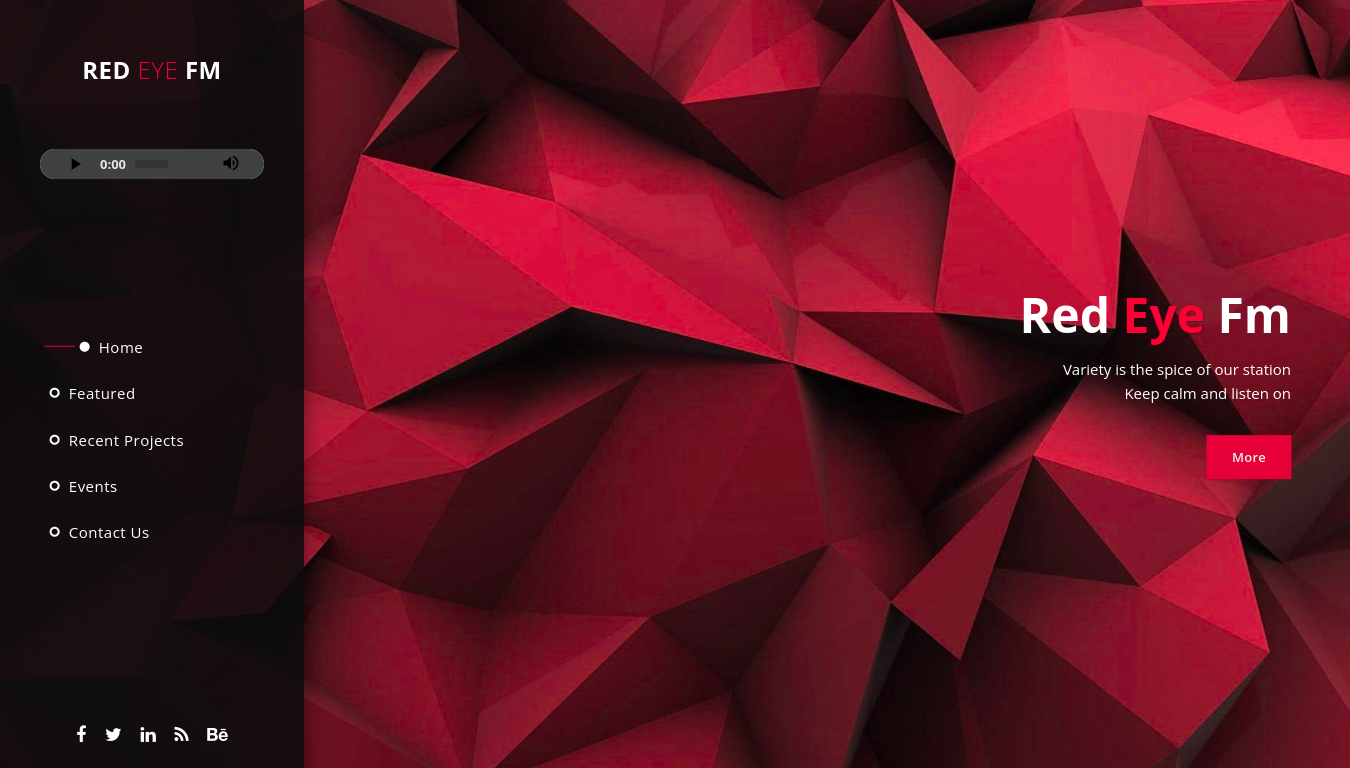
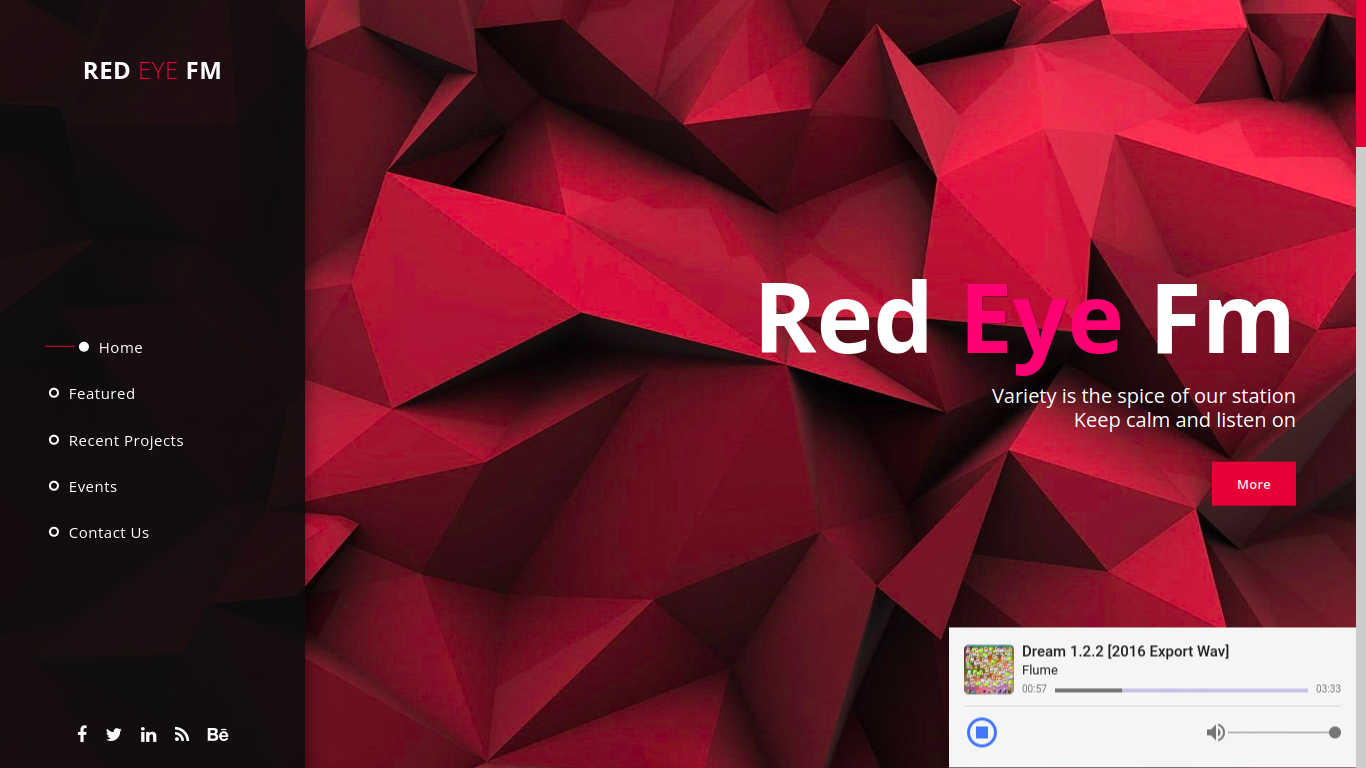
Player: Azure cast player

diff --git a/index.html b/index.html
@@ -9,6 +9,7 @@
     <meta http-equiv="X-UA-Compatible" content="IE=edge,chrome=1">
     <meta name="description" content="">
     <meta name="viewport" content="width=device-width, initial-scale=1">
+    <link rel="shortcut icon" href="./img/favicon.ico" type="image/x-icon">
     <link rel="apple-touch-icon" href="apple-touch-icon.png">
     <!-- IMPORTS -->
     <link rel="stylesheet" href="css/bootstrap.min.css">
@@ -39,28 +40,18 @@
                     <li><a href="#projects">Recent Projects</a></li>
                     <li><a href="#vlog">Events</a></li>
                     <li><a href="#contact">Contact Us</a></li>
-
-                    <div class="mobile-player">
-                        <!-- EMBEDDED PLAYER -->
-                        <audio controls autoplay>
-                            <source src="https://c32.radioboss.fm:18097/stream">
-                        </audio>
-                    </div>
                 </ul>
-
-            
             </nav>
         </div>
     </header>
+    <div class="player-container">
+        <iframe class="player" src="https://azct1.cheapazuracast.xyz/public/redeyefm/embed?theme=light" frameborder="0" allowtransparency="true"></iframe>
+    </div>
+   
     <!-- SIDE NAV -->
     <div class="sidebar-navigation hidden-sm hidden-xs">
         <div class="logo">
-            <a href="https://www.instagram.com/rogueradio.live/?hl=en">Red <em>Eye</em> Fm</a>
-            <!-- EMBEDDED PLAYER -->
-                <audio controls autoplay>
-                    <source src="https://c32.radioboss.fm:18097/stream">
-                </audio>
-            
+            <a href="https://www.instagram.com/redeyefmke/">Red <em>Eye</em> Fm</a>
         </div>
         <nav>
             <ul>
@@ -103,8 +94,8 @@
         </nav>
         <!-- SOCIAL MEDIA LINKS -->
         <ul class="social-icons">
-            <li><a href="https://www.facebook.com/RogueRadio4Life"><i class="fa fa-facebook"></i></a></li>
-            <li><a href="https://twitter.com/rogueradioolive?lang=en"><i class="fa fa-twitter"></i></a></li>
+            <li><a href="https://www.facebook.com/redeyefm"><i class="fa fa-facebook"></i></a></li>
+            <li><a href="https://twitter.com/redeyefm"><i class="fa fa-twitter"></i></a></li>
             <li><a href="#"><i class="fa fa-linkedin"></i></a></li>
             <li><a href="#"><i class="fa fa-rss"></i></a></li>
             <li><a href="#"><i class="fa fa-behance"></i></a></li>
@@ -123,9 +114,10 @@
                             <h1 class="main-text">
                                 Red
                                 <span style="color: #fc3041; text-shadow: .1rem .1rem .1rem rgba(0,0,0,0.3);">
-                                    Eye    
+                                    Eye
                                 </span>
-                                Tv</h1>
+                                Fm
+                            </h1>
                             <p>
                                 Variety is the spice of our station
                                 <br>
@@ -138,45 +130,6 @@
                     </div>
                 </div>
             </div>
-            <!-- // Item -->
-            <!-- Item -->
-            <!-- <div class="item item-2">
-                <div class="img-fill">
-                    <div class="image"></div>
-                    <div class="info">
-                        <div>
-                            <h1>The 420 <br>show</h1>
-                            <p>Three like-minded guys in a room with three microphones. <br>What could possibly go
-                                wrong?
-                            </p>
-
-                            <div class="white-button button">
-                                <a href="#featured">Show More</a>
-                            </div>
-                        </div>
-                    </div>
-                </div>
-            </div> -->
-            <!-- // Item -->
-            <!-- Item -->
-            <!-- <div class="item item-3">
-                <div class="img-fill">
-                    <div class="image"></div>
-                    <div class="info">
-                        <div>
-                            <h1><b>90+</b><br>kama mbaya mbaya</h1>
-                            <p>Sky Sports Football - <br>Live games, scores, latest football news, transfers,
-                                results,<br>
-                                fixtures and team news from the Premier to the Champions League...</p>
-
-                            <div class="white-button button">
-                                <a href="#featured">Learn More</a>
-                            </div>
-                        </div>
-                    </div>
-                </div>
-            </div> -->
-            <!-- // Item -->
         </div>
     </div>
     <!-- FEATURED CONTENT -->
@@ -198,10 +151,12 @@
                         <div class="text-content">
                             <h4>Miss Anthropocene</h4>
                             <span>
-                                Grimes' fifth album, Miss Anthropocene, is a captivating piece of art that delves deep into themes of climate change, environmental destruction, and the human condition.
+                                Grimes' fifth album, Miss Anthropocene, is a captivating piece of art that delves deep
+                                into themes of climate change, environmental destruction, and the human condition.
                             </span>
                             <p>
-                                 From start to finish, this album transports listeners to a dystopian future where humanity's fate hangs in the balance.
+                                From start to finish, this album transports listeners to a dystopian future where
+                                humanity's fate hangs in the balance.
                             </p>
                         </div>
                     </div>
@@ -215,10 +170,15 @@
                         <div class="text-content">
                             <h4>Self Improvement</h4>
                             <span>
-                                The recent rise in self-improvement culture has sparked a drive among many to optimize their lives and reach perfection.
+                                The recent rise in self-improvement culture has sparked a drive among many to optimize
+                                their lives and reach perfection.
                             </span>
                             <p>
-                                To begin with, the continuous strain to better oneself can lead to obsessive self-criticism and doubt. People may feel they are not making enough progress in spite of their hard work, which can bring about feelings of despair, dejection, and exhaustion. This pressure may also cause comparison and competition between others that lead to a feeling of inadequacy. 
+                                To begin with, the continuous strain to better oneself can lead to obsessive
+                                self-criticism and doubt. People may feel they are not making enough progress in spite
+                                of their hard work, which can bring about feelings of despair, dejection, and
+                                exhaustion. This pressure may also cause comparison and competition between others that
+                                lead to a feeling of inadequacy.
                             </p>
                         </div>
                     </div>
@@ -233,7 +193,10 @@
                             <h4>The idea of marriage</h4>
                             <span>Marriage in the 21st Century</span>
                             <p>
-                                The idea of marriage has evolved significantly over the years, yet it is still largely rooted in traditional gender roles and societal norms. Therefore, it might be beneficial to rethink the conventional concept of marriage and explore new models that better reflect the contemporary values and beliefs.
+                                The idea of marriage has evolved significantly over the years, yet it is still largely
+                                rooted in traditional gender roles and societal norms. Therefore, it might be beneficial
+                                to rethink the conventional concept of marriage and explore new models that better
+                                reflect the contemporary values and beliefs.
                             </p>
                         </div>
 
@@ -250,8 +213,9 @@
             <div class="section-heading">
                 <h1>Recent<br><em>Projects</em></h1>
                 <p>
-                    The recent rise in self-improvement culture has sparked a drive among many to optimize their lives and reach perfection. 
-                    
+                    The recent rise in self-improvement culture has sparked a drive among many to optimize their lives
+                    and reach perfection.
+
                 </p>
             </div>
             <div class="section-content">
@@ -259,26 +223,26 @@
                     <div class="row">
                         <div class="item">
                             <div class="col-md-8">
-                                <a href="./img/albumart/art3.jpg" data-lightbox="image"><img src="./img/albumart/art3.jpg"
-                                        alt="image 1"></a>
+                                <a href="./img/albumart/art3.jpg" data-lightbox="image"><img
+                                        src="./img/albumart/art3.jpg" alt="image 1"></a>
                             </div>
                         </div>
                         <div class="item second-item">
                             <div class="col-md-4">
-                                <a href="./img/albumart/art2.jpg" data-lightbox="image"><img src="./img/albumart/art2.jpg"
-                                        alt="image 2"></a>
+                                <a href="./img/albumart/art2.jpg" data-lightbox="image"><img
+                                        src="./img/albumart/art2.jpg" alt="image 2"></a>
                             </div>
                         </div>
                         <div class="item">
                             <div class="col-md-4">
-                                <a href="./img/albumart/art1.jpg" data-lightbox="image"><img src="./img/albumart/art1.jpg"
-                                        alt="image 3"></a>
+                                <a href="./img/albumart/art1.jpg" data-lightbox="image"><img
+                                        src="./img/albumart/art1.jpg" alt="image 3"></a>
                             </div>
                         </div>
                         <div class="item">
                             <div class="col-md-4">
-                                <a href="./img/albumart/art4.jpg" data-lightbox="image"><img src="./img/albumart/art4.jpg"
-                                        alt="image 4"></a>
+                                <a href="./img/albumart/art4.jpg" data-lightbox="image"><img
+                                        src="./img/albumart/art4.jpg" alt="image 4"></a>
                             </div>
                         </div>
                     </div>
@@ -386,12 +350,13 @@
             <source src="https://c32.radioboss.fm:18097/stream">
         </audio> -->
         <section class="footer">
-            
-            <p>Copyright &copy; 2023 
+
+            <p>Copyright &copy; 2023
                 <span>
                     Red Eye
                 </span>
-                 Fm</p>
+                Fm
+            </p>
         </section>
     </div>
 

diff --git a/css/style.css b/css/style.css
@@ -177,6 +177,20 @@ header {
   background-color: #232323;
 }
 
+/* SCROLL BAR STYLING */
+
+::-webkit-scrollbar {
+  width: 10px;
+  height: 10px;
+}
+
+::-webkit-scrollbar-thumb {
+  background: var(--red-alt);
+}
+
+::-webkit-scrollbar-track {
+  background: rgba(0, 0, 0, 0.2);
+}
 
 /************* Sidebar Style *************/
 
@@ -220,11 +234,38 @@ header {
 }
 
 /* MOBILE PLAYER */
-.mobile-player {
-  text-align: center;
-  background: rgba(0, 0, 0, 0.2);
-  padding: 1rem;
+.player {
+  background: whitesmoke;
+  box-shadow: 0 2rem 2rem 0 rgba(0, 0, 0, .6);
+  padding: 1.5rem;
+  position: fixed;
+  right: 0;
+  bottom: 0;
+  width: 30%;
+  height: 140px;
+  z-index: 90;
+  animation: hover 3s infinite;
+  opacity: .9;
+  cursor: pointer;
+  transition: .4s all ease;
 }
+
+.player:hover {
+  opacity: 1;
+}
+
+@keyframes hover {
+  0% {
+    transform: translateY(-4px);
+  }
+  50% {
+    transform: translateY(0px);
+  }
+  100% {
+    transform: translateY(-4px);
+  }
+}
+
 
 .main-text span {
   animation: glow2 2.5s infinite;
@@ -782,14 +823,14 @@ nav .active-section span {
 
 /* Styling For Iframe */
 
-iframe {
+/* iframe {
   border-radius: 21px;
-}
+} */
 
 @media (max-width: 400px) {
-  iframe {
+  /* iframe {
     width: 100%;
-  }
+  } */
 }
 
 #video .section-heading {
@@ -1033,6 +1074,11 @@ iframe {
   .responsive-nav {
     display: block;
     height: 60px;
+  }
+
+  .player {
+    width: 100%;
+    opacity: 1;
   }
 
   .page-content {
